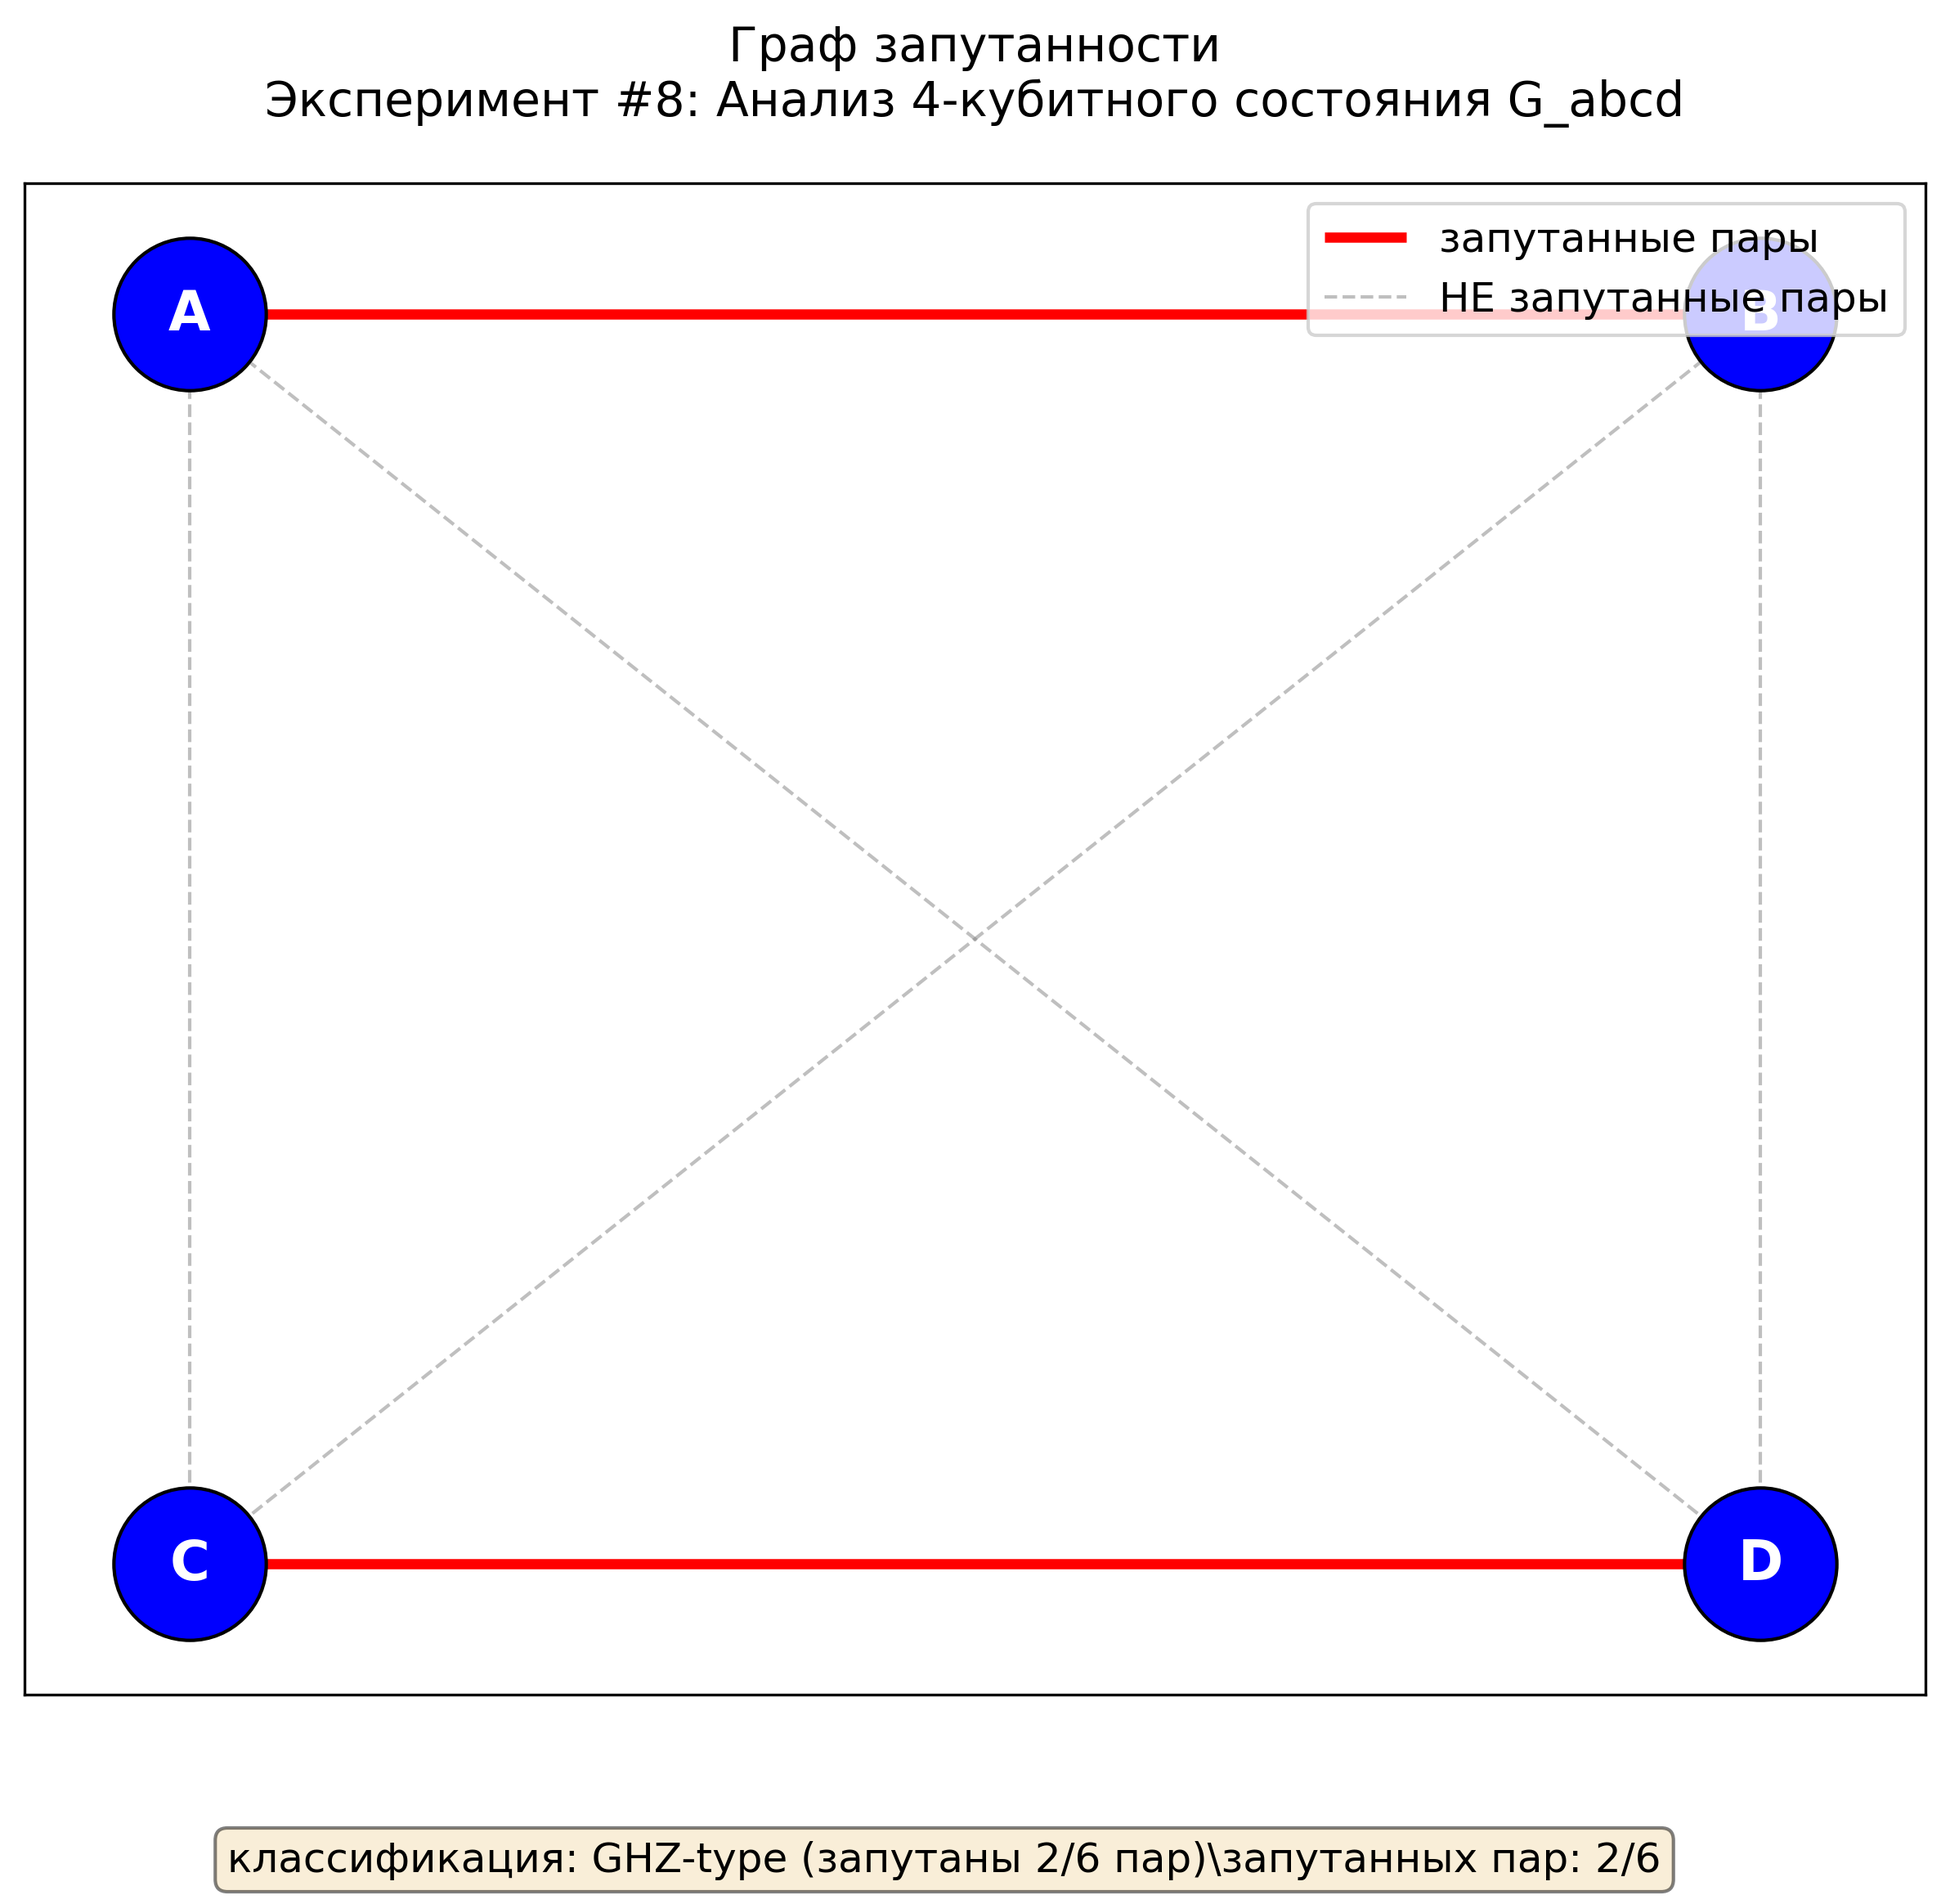
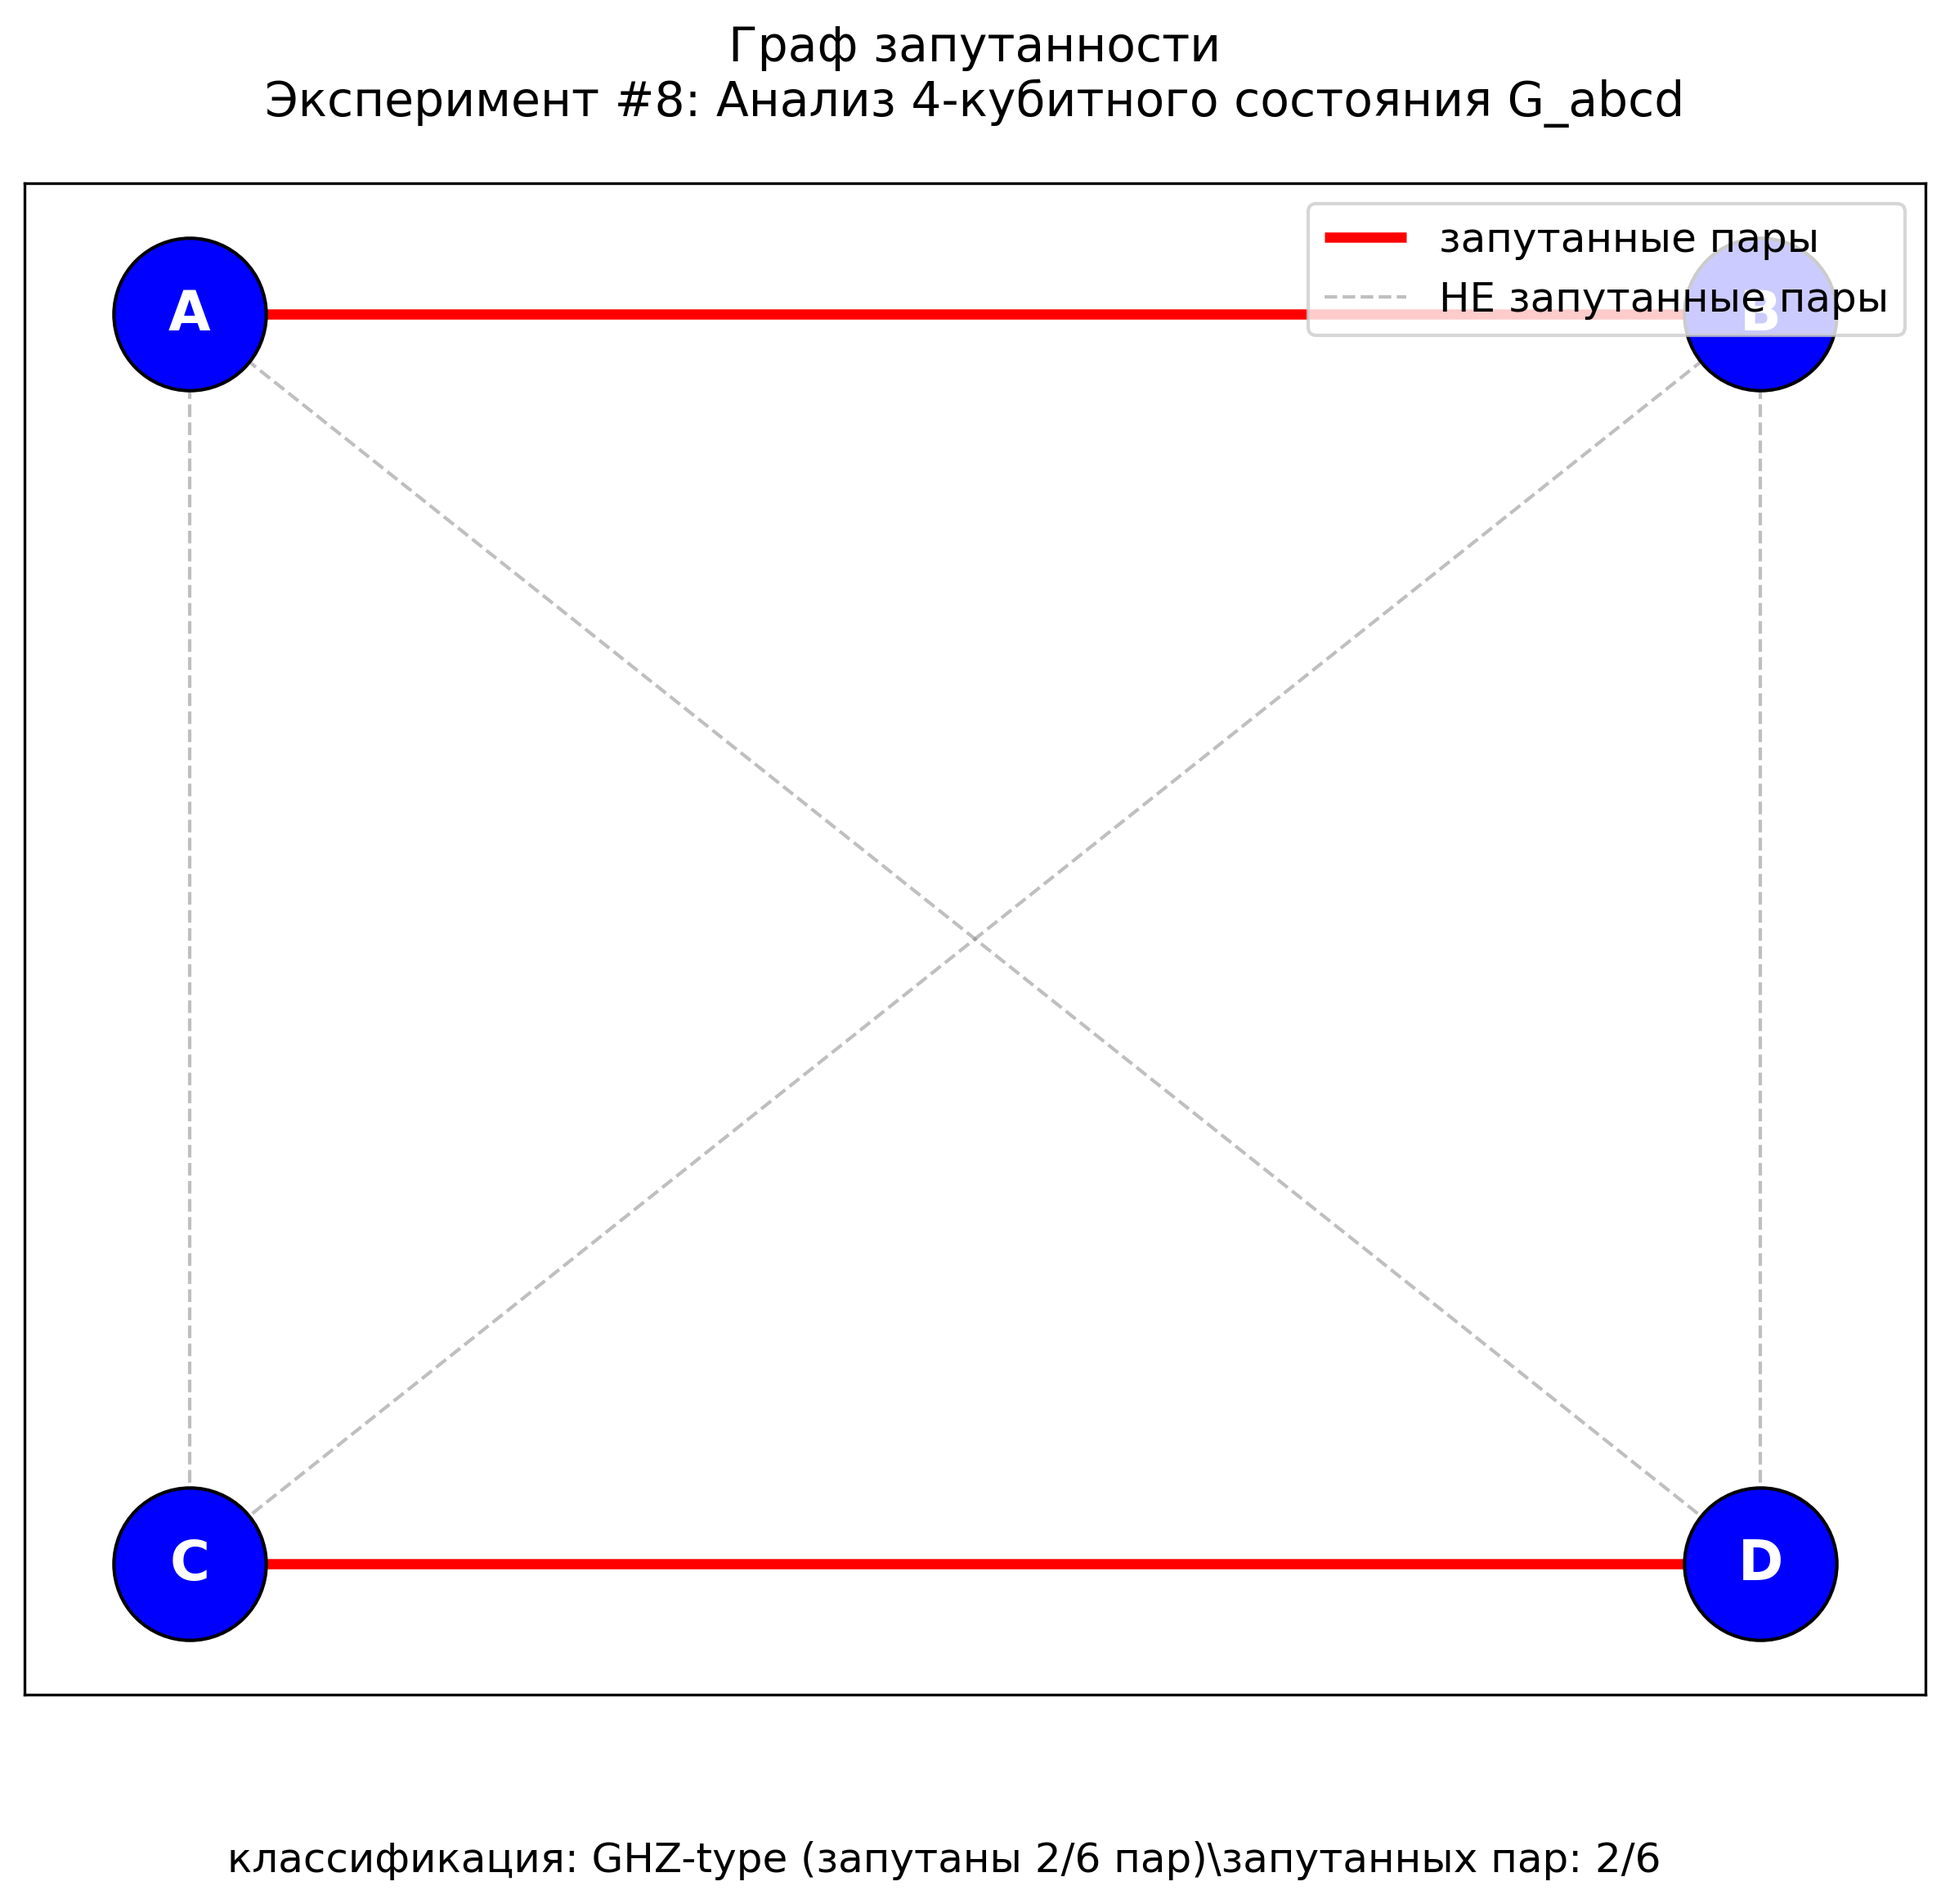
проба графовых состояний 2

Changed region(s): [[0.0931, 0.9588, 0.8688, 1.0]]

diff --git a/visualize_entanglement.py b/visualize_entanglement.py
@@ -41,11 +41,6 @@ class EntanglementVisualizer:
                 else:
                     parameters = {}
 
-                # if results_json:
-                #     results = json.loads(results_json)
-                # else:
-                #     results = {}  # если результатов нет вернется пустой словарб
-
                 if results_json is None:
                     results = {}
                 else:
@@ -140,9 +135,7 @@ class EntanglementVisualizer:
         classification = results.get('classification', 'Неизвестно')
         entangled_count = results.get('entangled_count', 0)
         info_text = f"классификация: {classification}\запутанных пар: {entangled_count}/6"
-        plt.figtext(0.5, 0.02, info_text, 
-                   ha='center', fontsize=12,
-                   bbox=dict(boxstyle='round', facecolor='wheat', alpha=0.5))
+        plt.figtext(0.5, 0.02, info_text, ha='center', fontsize=12)
         
         # легенда
         plt.legend(loc='upper right', fontsize=12)
